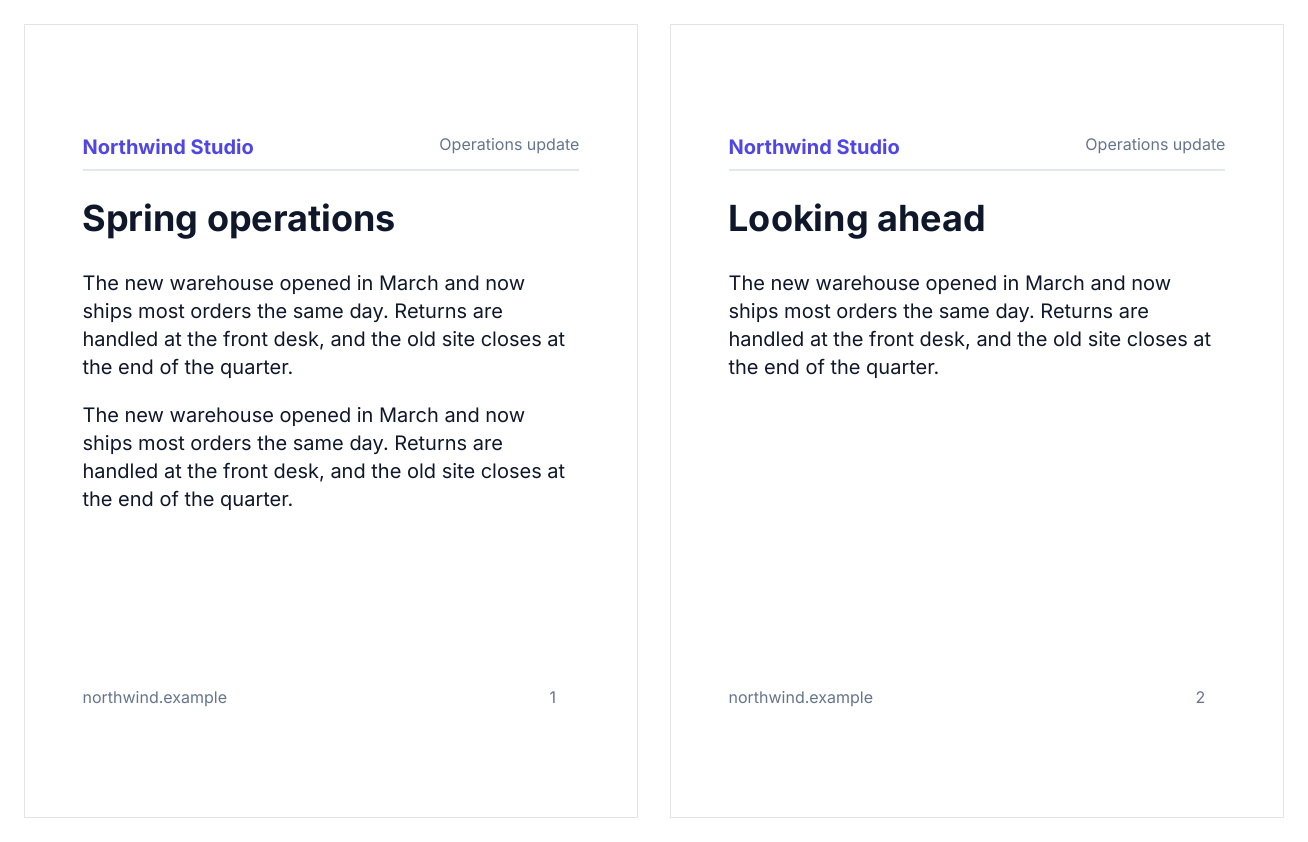
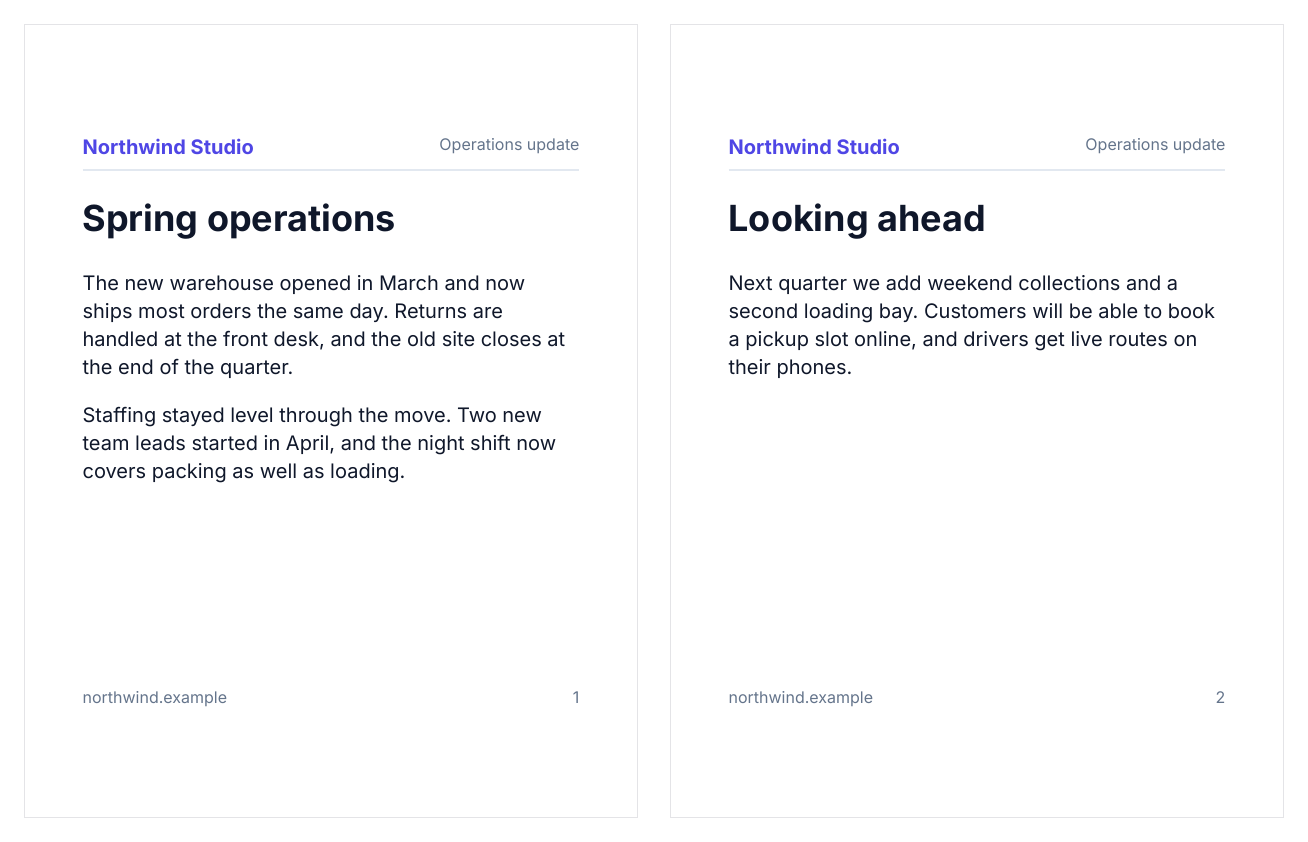
fix(site): gallery review fixes
Keyboard focus ring drawn inside the tile, step buttons kept on phones
for screen readers, the caption announced as slides change, the lightbox
fits short screens, render.php rejects options after the image id, and
the header-and-footer and styled QR images tidied.

Changed region(s): [[0.0612, 0.4632, 0.4281, 0.6176], [0.5505, 0.3088, 0.9174, 0.4632]]

diff --git a/site/src/.vuepress/styles/index.scss b/site/src/.vuepress/styles/index.scss
@@ -217,6 +217,12 @@
   text-decoration: none;
 }
 
+// Drawn inside the thumb: the tile clips anything outside it.
+.gallery-thumb:focus-visible {
+  outline: 2px solid var(--vp-c-accent-bg);
+  outline-offset: -3px;
+}
+
 .gallery-badge {
   position: absolute;
   top: 0.5rem;
@@ -257,6 +263,7 @@
   align-items: center;
   justify-content: center;
   padding: 1rem;
+  overflow: auto;
   background: rgba(9, 9, 11, 0.88);
 }
 
@@ -281,7 +288,8 @@
   display: block;
   min-width: 0;
   max-width: min(92vw - 6rem, 1100px);
-  max-height: 80vh;
+  // Room for the close button and caption above and below, so they stay on screen.
+  max-height: calc(100vh - 9rem);
   margin: 0 auto;
   background: #fff;
   border-radius: 4px;
@@ -350,12 +358,19 @@
   background: #fafafa;
 }
 
+// On a phone the step buttons shrink but stay: a screen reader can't swipe through the slides.
 @media (max-width: 599px) {
+  .gallery-stage {
+    gap: 0.35rem;
+  }
+
   .gallery-step {
-    display: none;
+    width: 1.9rem;
+    height: 1.9rem;
+    font-size: 1.2rem;
   }
 
   .gallery-stage img {
-    max-width: calc(100vw - 2rem);
+    max-width: calc(100vw - 6rem);
   }
 }

diff --git a/site/src/.vuepress/components/GalleryLightbox.vue b/site/src/.vuepress/components/GalleryLightbox.vue
@@ -84,7 +84,7 @@ onBeforeUnmount(() => {
           <button v-if="many" type="button" class="gallery-step" aria-label="Next variant" @click="go(1)">›</button>
         </div>
         <div class="gallery-caption">
-          <div>
+          <div aria-live="polite">
             <strong>{{ tile.title }}</strong>
             <code v-if="slide.label">{{ slide.label }}</code>
             <span v-if="many" class="gallery-count">{{ index + 1 }} of {{ slides.length }}</span>

diff --git a/site/gallery/sources/header-and-footer.php b/site/gallery/sources/header-and-footer.php
@@ -18,11 +18,18 @@ return Document::make(
         )->justify(Justify::SpaceBetween)->padding(Edges::of(pt(0), pt(0), pt(4), pt(0)))->borderWidth(Edges::of(pt(0), pt(0), pt(0.75), pt(0)))->borderColor('slate-200'))
         ->footer(Row::make(
             Text::make('northwind.example')->size(pt(8))->color('slate-500'),
-            PageNumber::make('{page}')->size(pt(8))->color('slate-500'),
+            PageNumber::make('{page}')->size(pt(8))->color('slate-500')->right(),
         )->justify(Justify::SpaceBetween))
         ->body(
-            Column::make(Text::h2('Spring operations'), Text::p($para), Text::p($para))->gap(pt(4)),
+            Column::make(
+                Text::h2('Spring operations'),
+                Text::p($para),
+                Text::p('Staffing stayed level through the move. Two new team leads started in April, and the night shift now covers packing as well as loading.'),
+            )->gap(pt(4)),
             PageBreak::make(),
-            Column::make(Text::h2('Looking ahead'), Text::p($para))->gap(pt(4)),
+            Column::make(
+                Text::h2('Looking ahead'),
+                Text::p('Next quarter we add weekend collections and a second loading bay. Customers will be able to book a pickup slot online, and drivers get live routes on their phones.'),
+            )->gap(pt(4)),
         ),
 )->createdAt(new DateTimeImmutable('2026-01-01T00:00:00Z'));

diff --git a/site/gallery/sources/styled-qr-code.php b/site/gallery/sources/styled-qr-code.php
@@ -3,16 +3,17 @@
 declare(strict_types=1);
 
 use Papercut\{Column, Document, Page, QrCode, Row, Text, View};
+use Papercut\Style\Align;
 
 use function Papercut\{in, pt};
 
-$qr = static fn (QrCode $code, string $caption): View => Column::make($code->width(in(1.3)), Text::make($caption)->size(pt(9))->color('slate-500'))->gap(pt(4));
+$qr = static fn (QrCode $code, string $caption): View => Column::make($code->width(in(1.3)), Text::make($caption)->size(pt(9))->color('slate-500')->center())->gap(pt(4))->align(Align::Center);
 $url = 'https://example.com/menu';
 
 return Document::make(Page::size(in(6), in(8))->margin(in(0.25))->body(
     Row::make(
-        $qr(QrCode::make($url)->shape('rounded')->eyes('pointy')->color('indigo-700'), 'rounded, pointy eyes'),
-        $qr(QrCode::make($url)->shape('dots')->eyes('dot')->eyeColor('rose-600'), 'dots, round eyes'),
-        $qr(QrCode::make($url)->shape('rounded')->gradient('sky-500', 'violet-600'), 'gradient'),
+        $qr(QrCode::make($url)->shape('rounded')->eyes('pointy')->color('indigo-700'), 'shape rounded, eyes pointy'),
+        $qr(QrCode::make($url)->shape('dots')->eyes('dot')->eyeColor('rose-600'), 'shape dots, eyes dot'),
+        $qr(QrCode::make($url)->shape('rounded')->gradient('sky-500', 'violet-600'), 'gradient, two colours'),
     )->gap(pt(20)),
 ))->createdAt(new DateTimeImmutable('2026-01-01T00:00:00Z'));

diff --git a/site/gallery/render.php b/site/gallery/render.php
@@ -5,6 +5,7 @@ declare(strict_types=1);
 // Renders the docs gallery images. Run from the repository root:
 //   php site/gallery/render.php            every image
 //   php site/gallery/render.php card.flat  one image
+// Options, before the id: --manifest=<gallery.json> and --out=<directory> (default: the site's public gallery folder).
 // Needs pdftoppm (poppler) and the GD extension, and `composer install` in packages/core.
 
 require __DIR__ . '/../../packages/core/vendor/autoload.php';
@@ -20,6 +21,12 @@ $options = getopt('', ['manifest:', 'out:'], $rest);
 $manifest = is_string($options['manifest'] ?? null) ? $options['manifest'] : __DIR__ . '/gallery.json';
 $out = is_string($options['out'] ?? null) ? $options['out'] : null;
 $only = $argv[$rest] ?? null;
+foreach (array_slice($argv, $rest + 1) as $extra) {
+    // getopt() stops at the first plain argument, so an option after the id would be dropped and the image
+    // written to the site instead of where it was asked to go.
+    fwrite(STDERR, "gallery: unexpected argument $extra; options go before the image id\n");
+    exit(1);
+}
 
 $entries = Gallery::load($manifest)->entries($out);
 if ($only !== null) {

diff --git a/packages/core/tests/Feature/GalleryTest.php b/packages/core/tests/Feature/GalleryTest.php
@@ -64,6 +64,20 @@ final class GalleryTest extends TestCase
         }
     }
 
+    /** getopt() stops at the first plain argument, so "card.flat --out=/tmp" would quietly overwrite the committed image. */
+    public function test_render_script_rejects_options_after_the_id(): void
+    {
+        $out = sys_get_temp_dir() . '/papercut-gallery-out-' . bin2hex(random_bytes(4));
+        $image = self::root() . '/site/src/.vuepress/public/gallery/card.png';
+        $before = (string) file_get_contents($image);
+        $cmd = sprintf('cd %s && %s site/gallery/render.php card --out=%s 2>&1 1>/dev/null', escapeshellarg(self::root()), escapeshellarg(PHP_BINARY), escapeshellarg($out));
+        exec($cmd, $stderr, $code);
+        self::assertSame(1, $code, implode("\n", $stderr));
+        self::assertStringContainsString('options go before the image id', implode("\n", $stderr));
+        self::assertSame($before, (string) file_get_contents($image));
+        self::assertDirectoryDoesNotExist($out);
+    }
+
     public function test_render_script_reports_a_failing_source(): void
     {
         $dir = sys_get_temp_dir() . '/papercut-gallery-' . bin2hex(random_bytes(4));
